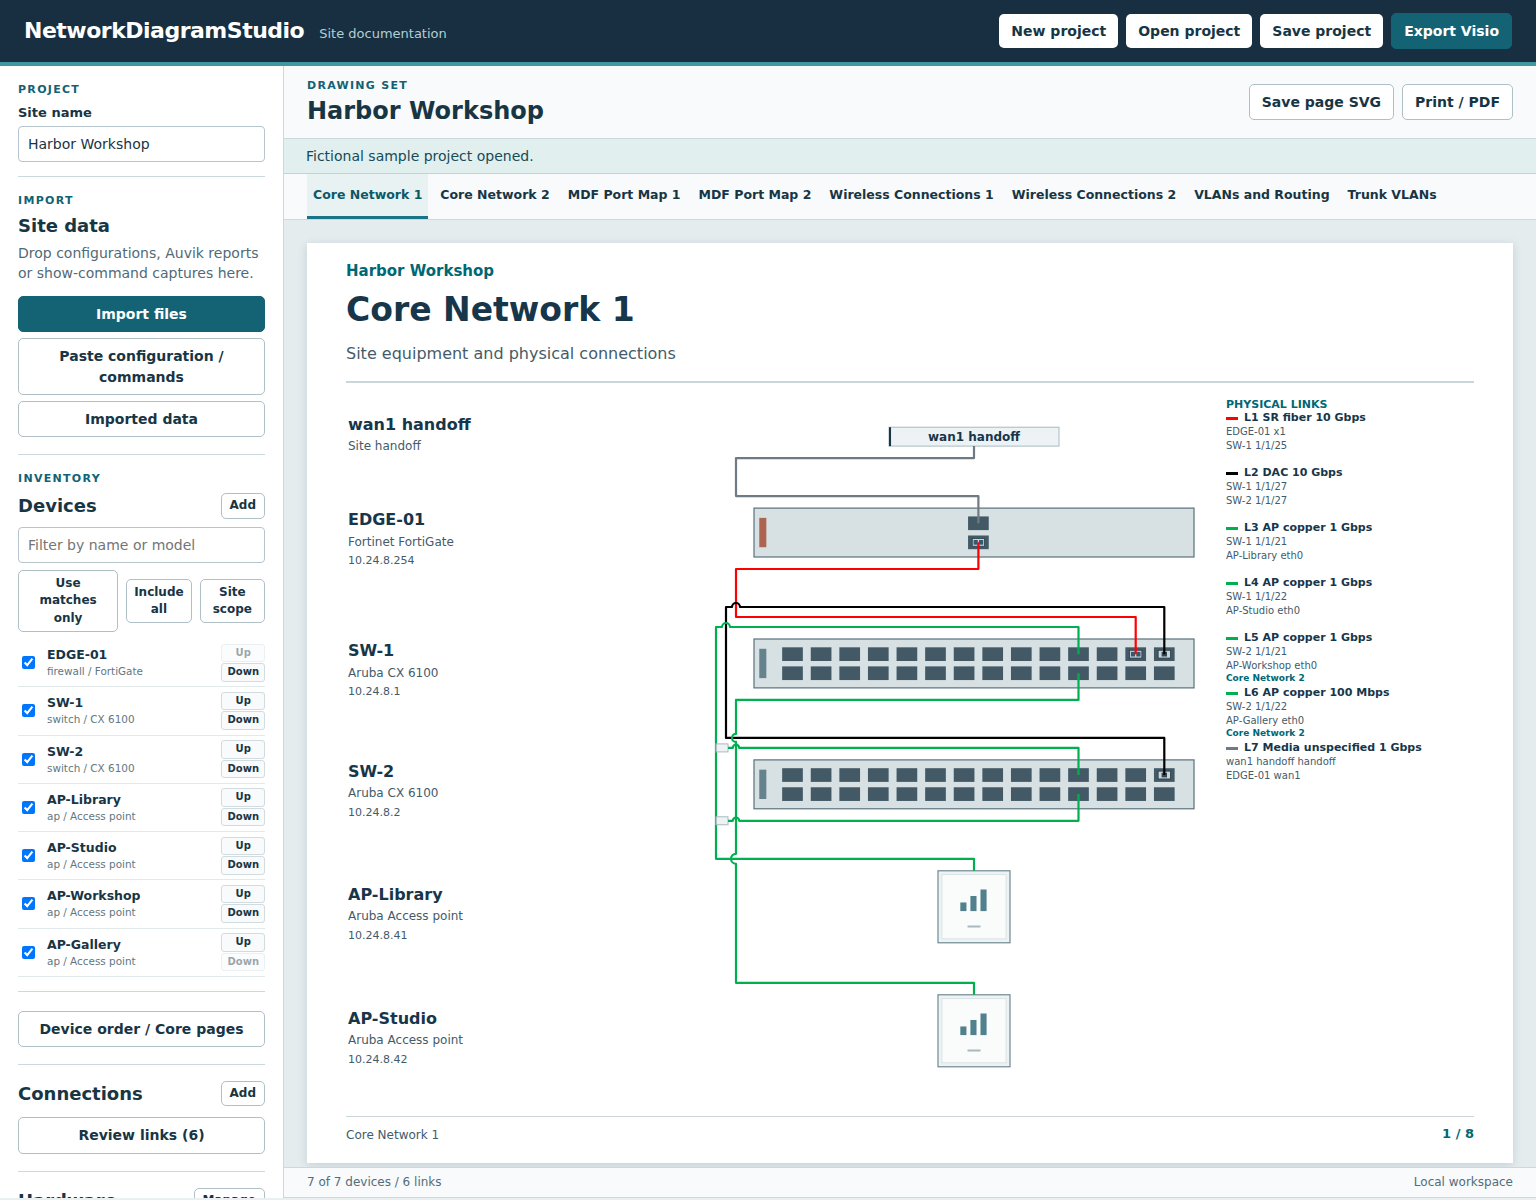
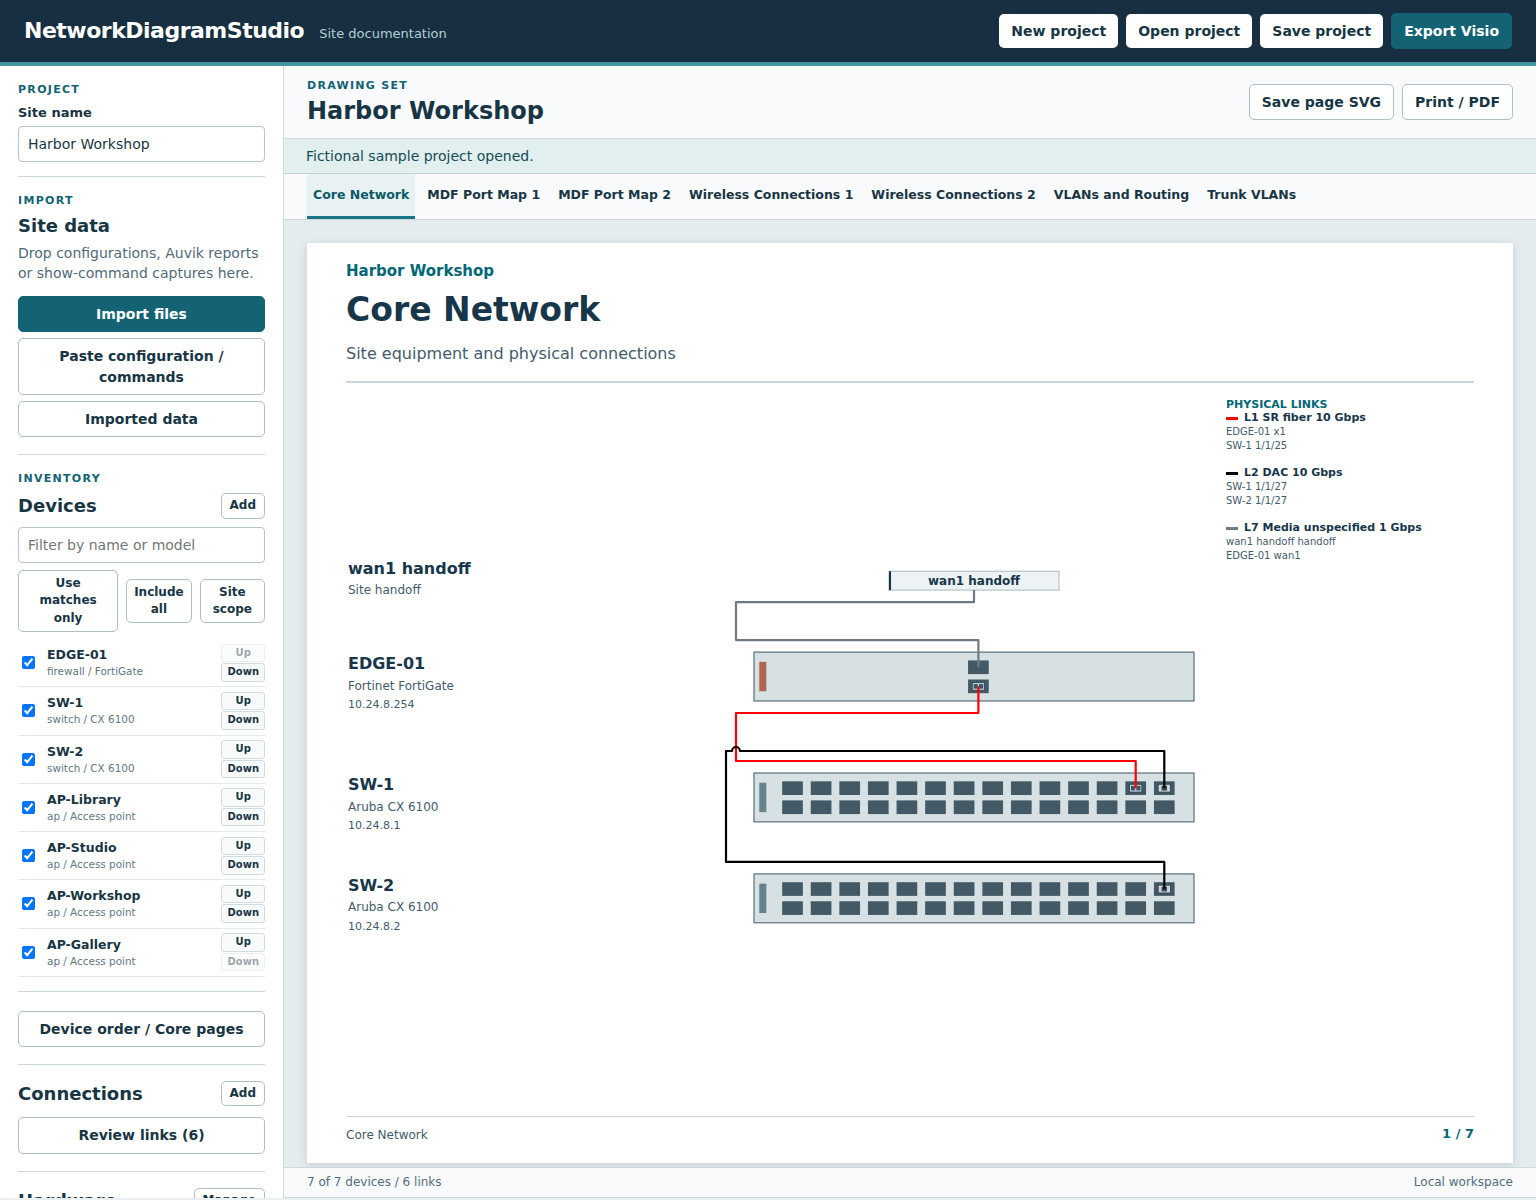
Keep automatic core focused on infrastructure and retain compact endpoint labels

diff --git a/src/web/diagram/README.md b/src/web/diagram/README.md
@@ -4,7 +4,7 @@ The browser entry point is index.mjs. buildPages(project) returns page records w
 
 The five views cover core equipment and links, physical switch port maps, switch-to-AP links, VLANs and routing, and trunk membership. Core sheets pack measured faceplates plus cable clearance; inventory views paginate by device and table size. Equal interface configurations collapse into port ranges. Long tables continue onto extra sheets. Headings and footers are date-free.
 
-project.layout.order supplies the saved device order. corePages is an array of {id,name,devices} assignments; unassigned equipment uses automatic sheets. coreExclude omits specific IDs from the core only. includeAPs defaults to true for automatic sheets. Hand-offs follow their owner's page assignment. Overflow retains page references. Page assignment and order are independent of site-wide inclusion.
+project.layout.order supplies the saved device order. corePages is an array of {id,name,devices} assignments; unassigned equipment uses automatic sheets. coreExclude omits specific IDs from the core only. includeAPs is opt-in for automatic sheets; explicit core-page assignments can include APs independently. Hand-offs follow their owner's page assignment. Overflow retains page references. Page assignment and order are independent of site-wide inclusion.
 
 ## Local front artwork
 
